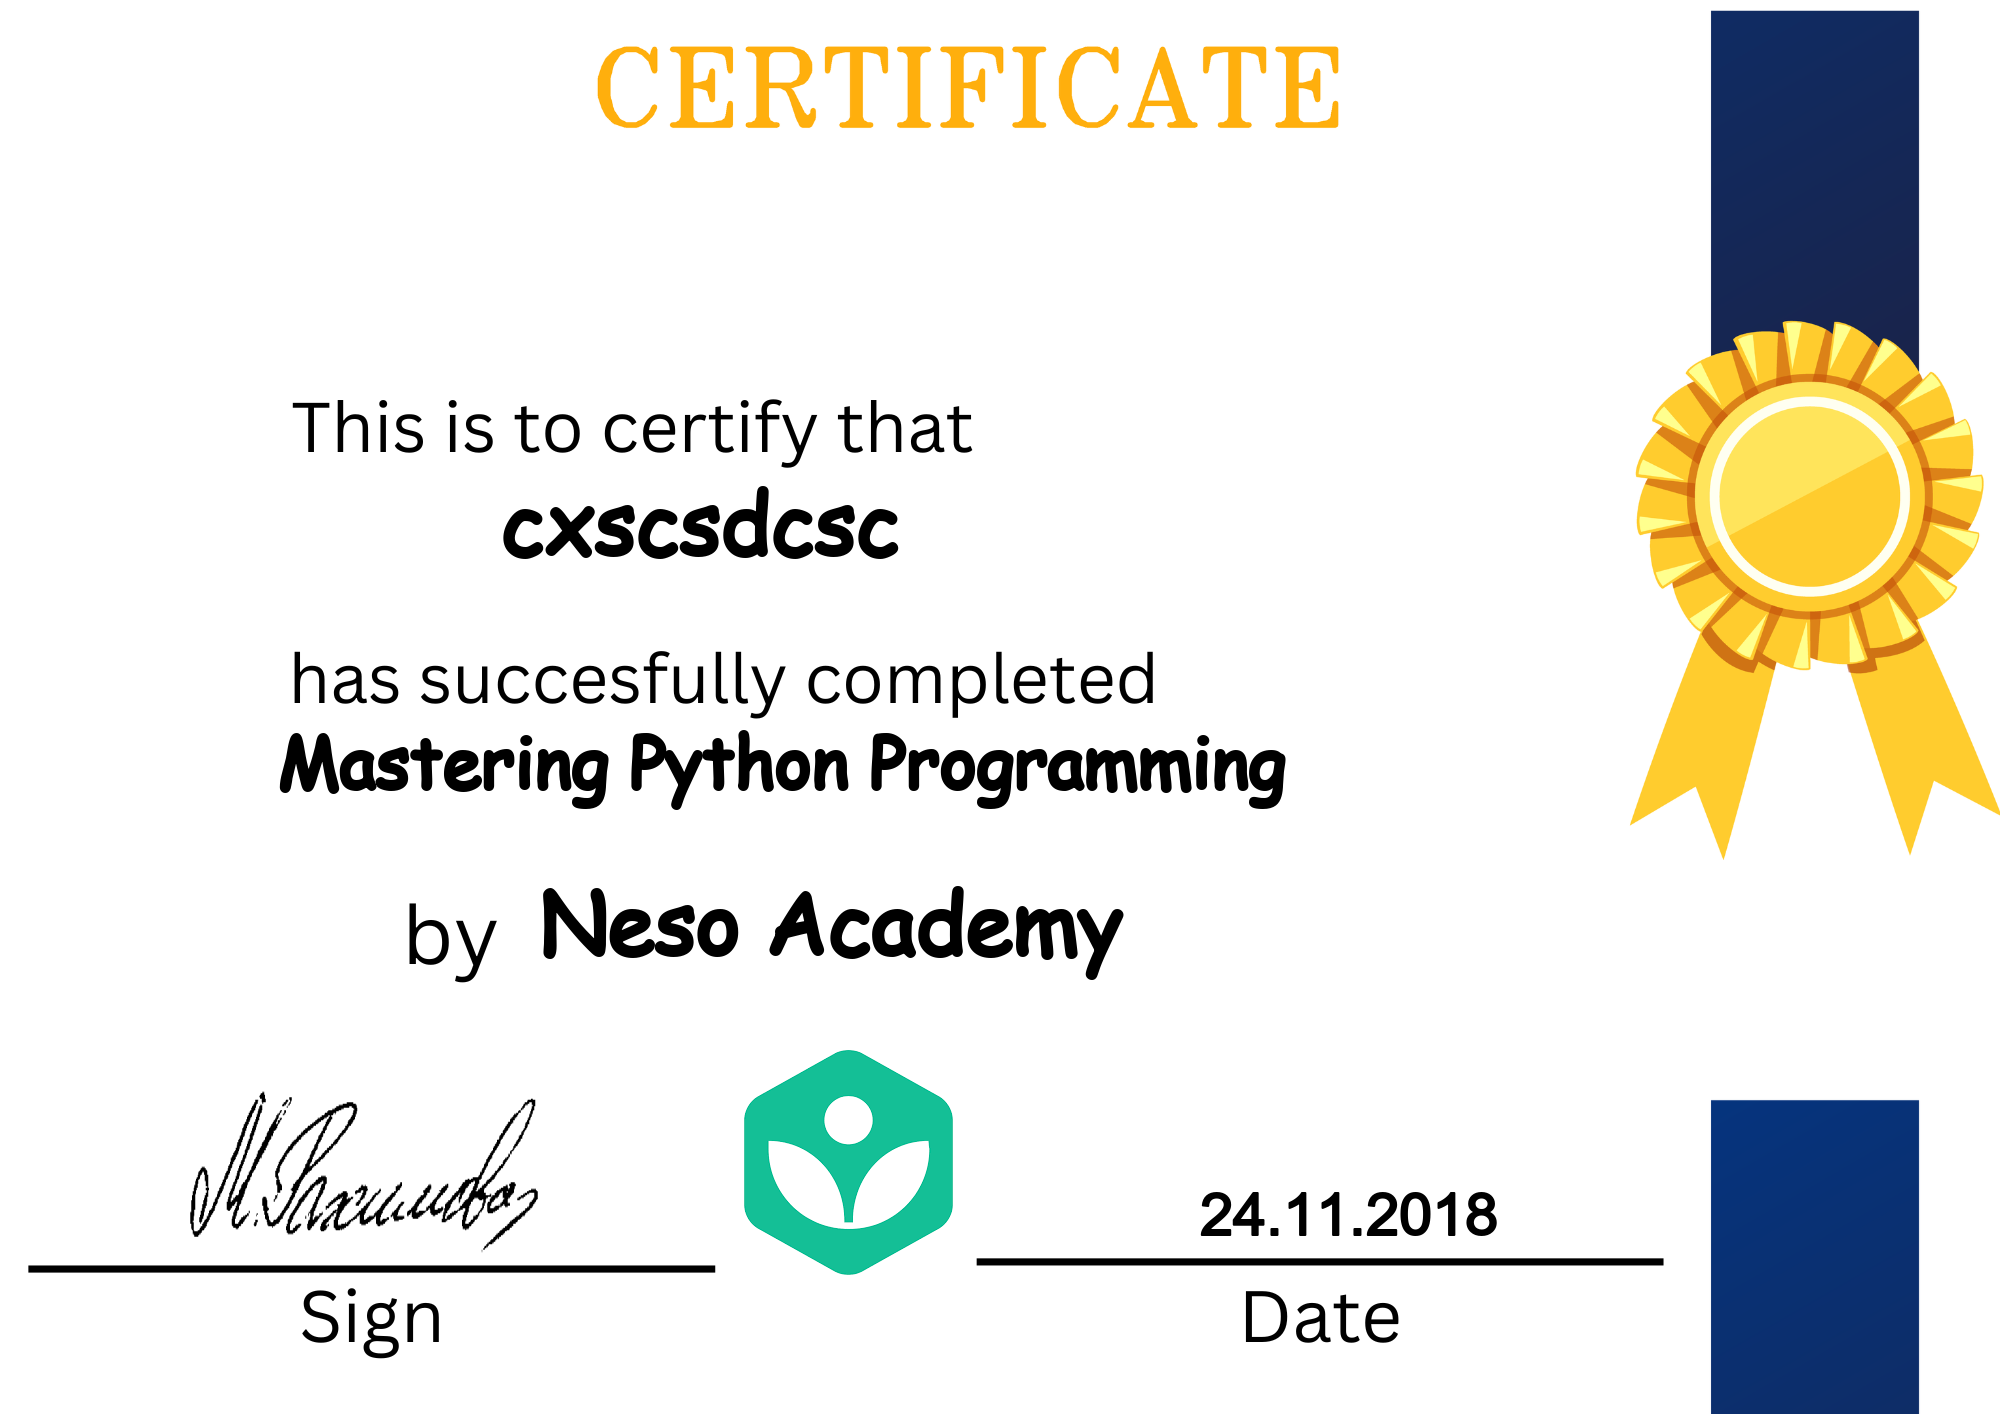
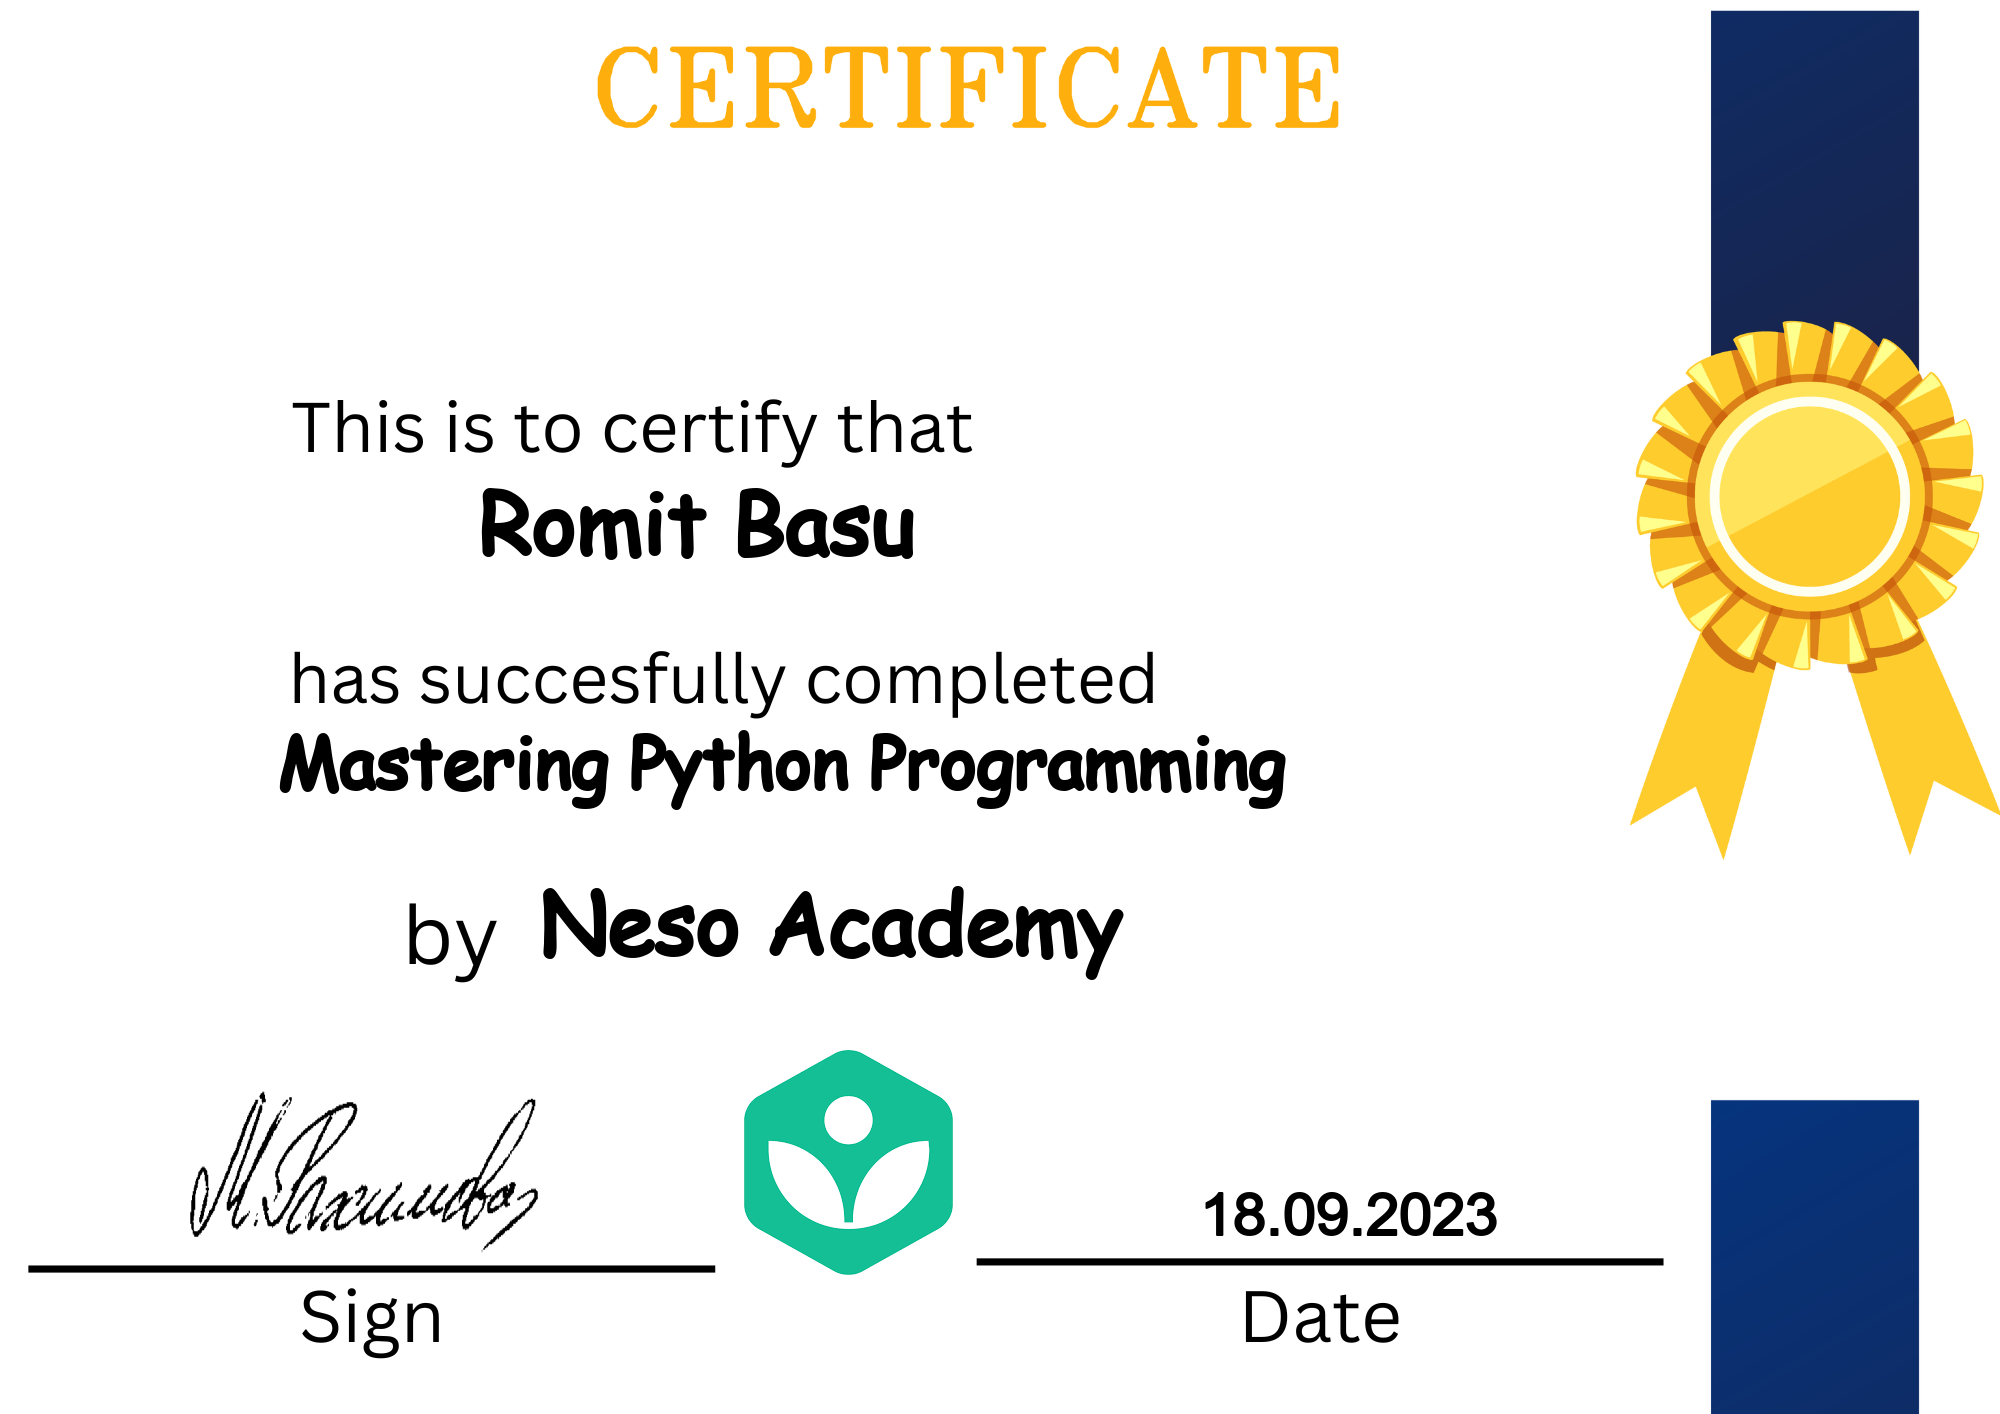
minor changes

Changed region(s): [[0.217, 0.3423, 0.465, 0.4045], [0.589, 0.8402, 0.682, 0.8713], [0.713, 0.8402, 0.744, 0.8713]]

diff --git a/controller/auth.js b/controller/auth.js
@@ -7,27 +7,26 @@ import jwt from 'jsonwebtoken';
 export const registerUser = async (req,res)=>{
     try {
         const{
-            firstname,
-            lastname,
+            name,
             phone,
             email,
-            pin,
+            password,
+            address
         }=req.body;
 
-        const check = await Org.findOne({phone:phone});
+        const check = await User.findOne({phone:phone});
         if(check)
         res.status(400).json({msg:"User already exists "});
 
         const salt = await bcrypt.genSalt();
-        const pinHash = await bcrypt.hash(pin,salt);
+        const passwordHash = await bcrypt.hash(password,salt);
 
         const newUser= new User({
-            firstname:firstname,
-            lastname:lastname,
+            name:name,
             phone:phone,
             email:email,
-            pin:pinHash,
-            certificates
+            password:passwordHash,
+            address:address
         });
         const savedUser = await newUser.save();
         res.status(201).json(savedUser);
@@ -43,6 +42,8 @@ export const registerOrg= async (req,res)=>{
         const{
             name,
             email,
+            website,
+            address,
             password
         }=req.body;
 
@@ -54,10 +55,11 @@ export const registerOrg= async (req,res)=>{
         const passwordHash = await bcrypt.hash(password,salt);
 
         const newOrg= new Org({
-            name,
-            email,
-            password:passwordHash,
-            issues
+            name:name,
+            email:email,
+            website:website,
+            address:address,
+            password:passwordHash
         });
         const savedOrg = await newOrg.save();
         res.status(201).json(savedOrg);
@@ -86,12 +88,12 @@ export const login= async (req,res)=>{
         }
         if(!org)//email is of user
         {
-            const isMatch = await bcrypt.compare(password, user.pin);
+            const isMatch = await bcrypt.compare(password, user.password);
             if(!isMatch)
             return res.status(400).json({ msg: "Invalid credentials. "});
         
             const token  = jwt.sign( { id: user._id},process.env.JWT_SECRET );
-            delete user.pin;
+            delete user.password;
             delete user.certificates;
             res.status(200).json({ token, user, type:"user" });
         }

diff --git a/certificate/certificate.js b/certificate/certificate.js
@@ -9,31 +9,29 @@ import jwt from "jsonwebtoken";
 export const createCertificate= async (req,res)=>{
     try {
         const {
-            firstname,
-            lastname,
-            phone,
+            name,
+            email,
             token
         }=req.body;
     
         const user = await User.findOne({
-            firstname:firstname,
-            lastname:lastname,
-            phone:phone
+            name:name,
+            email:email
         })
         if(!user)
         return res.status(400).json({ msg : "User does not exist. "});
 
         const org = jwt.verify(token,process.env.JWT_SECRET);
     
-        const organizaation= await Org.findOne({ _id : org.id });
+        const organization= await Org.findOne({ _id : org.id });
         const issue="../assets/certificate_generated_from_python.png"
         
-        // const Name = user.firstname +" "+user.lastname;
+        const Name = user.firstname +" "+user.lastname;
     
-        // const python_process = spawn('python',['./certificate.py',Name]);
-        // python_process.stdout.on('data',(data)=>{
-        //     console.log(data.toString())
-        // });
+        const python_process = spawn('python',['./certificate.py',Name]);
+        python_process.stdout.on('data',(data)=>{
+            console.log(data.toString())
+        });
         user.certificates.push(issue); 
 
     // Save the updated document

diff --git a/models/User.js b/models/User.js
@@ -1,29 +1,26 @@
 import mongoose from "mongoose";
 
 const UserSchema = new mongoose.Schema({
-    firstname:{
-        type:String,
-        required:true
-    },
-    lastname:{
+    name:{
         type:String,
         required:true
     },
     phone:{
         type:Number,
         required:true,
-        min:10,
-        max:10
     },
     email:{
         type:String,
         required:true
     },
-    pin: {
+    password: {
         type: String,
         required: true,
-        min: 6,
-        max: 6
+        min: 8
+    },
+    address:{
+        type:String,
+        default:""
     },
     certificates: {
         type:Array,

diff --git a/models/Org.js b/models/Org.js
@@ -14,6 +14,14 @@ const OrgSchema = new mongoose.Schema({
         required:true,
         min:5
     },
+    website:{
+        type:URL,
+        required:true
+    },
+    address:{
+        type:String,
+        default:""
+    },
     issues:{
         type:Array,
         default:[]

diff --git a/certificate/certificate.py b/certificate/certificate.py
@@ -12,7 +12,7 @@ import base64
 
 def main():
     image=Image.open(r'C:\Users\sayak\OneDrive\Desktop\server\assets\certificate_template.png')
-    cer_demo=certificate(image,"cxscsdcsc", "Mastering Python Programming", "Neso Academy", "24.11.2018" )
+    cer_demo=certificate(image,"Romit Basu", "Mastering Python Programming", "Neso Academy", "18.09.2023" )
     img=cer_demo.generate_certificate()
     logo=Image.open(r"C:\Users\sayak\OneDrive\Desktop\server\assets\khan_academy_logo.png")
     sign=Image.open(r"C:\Users\sayak\OneDrive\Desktop\server\assets\signature2.png")
@@ -23,7 +23,7 @@ def main():
     with open(r'C:\Users\sayak\OneDrive\Desktop\server\assets\certificate_generated_from_python.png', "rb") as image_file:
     # Encode the binary image data to Base64
         base64_image = base64.b64encode(image_file.read()).decode("utf-8")
-    print(base64_image)
+    #print(base64_image)
 
 if __name__== "__main__" :
     main()
